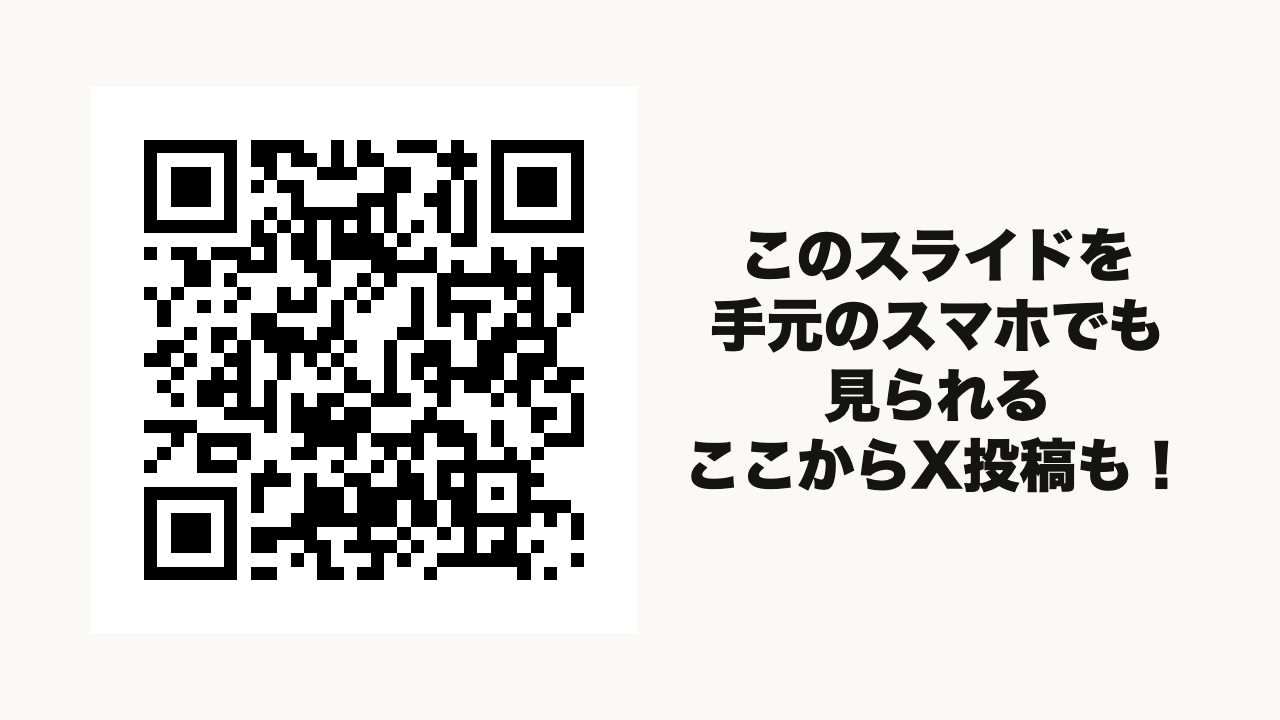
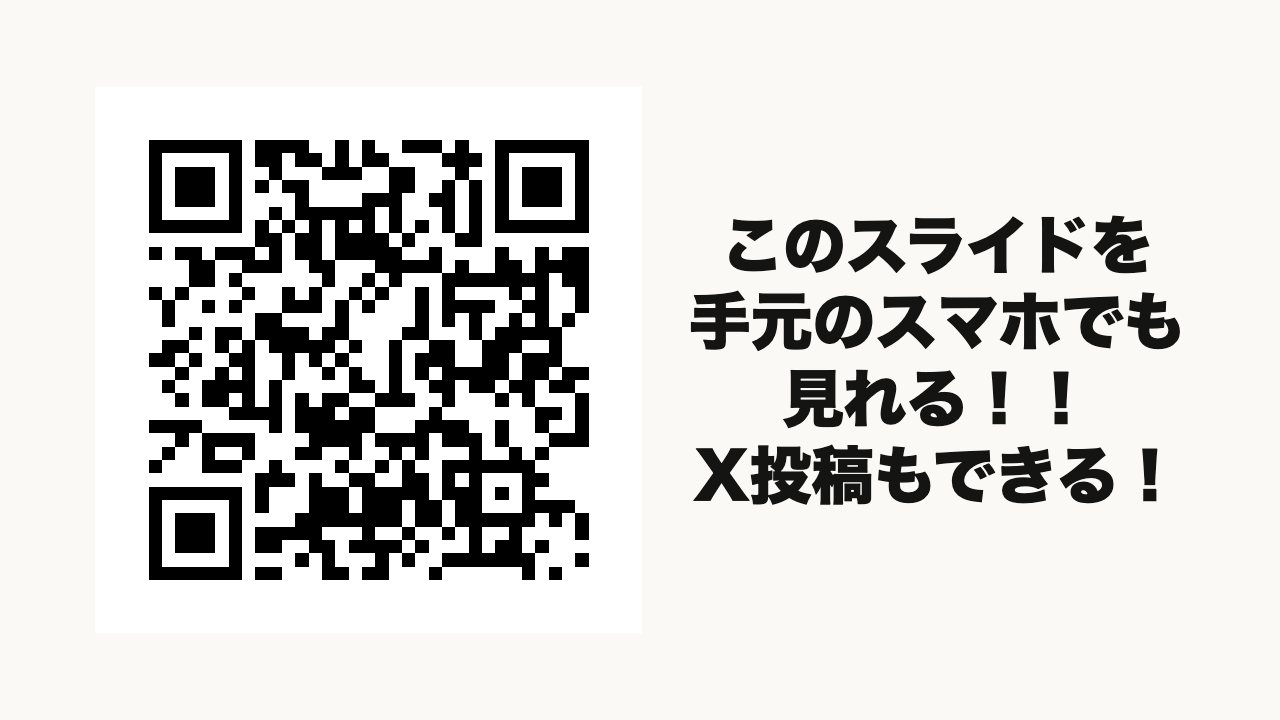
参加者向けスライドを編集内容に合わせて更新する

Changed region(s): [[0.0938, 0.1833, 0.4688, 0.825], [0.5312, 0.3056, 0.9375, 0.7028]]

diff --git a/claude-meetup/index.html b/claude-meetup/index.html
@@ -31,7 +31,7 @@
 <div id="toast" role="status" hidden></div>
 <script>
 (function () {
-  const ALL = [{"id": "title", "alt": "LTしたい Codex使いは Claude Codeの世界に 足を踏み入れる"}, {"id": "photoOk", "alt": "撮影・SNS投稿 大歓迎"}, {"id": "sameIdea", "alt": "鮫さんの 登壇スタイルを 真似してみる"}, {"id": "audienceQr", "alt": "このスライドを 手元のスマホでも 見られる ここからX投稿も！"}, {"id": "profile", "alt": "あぶち"}, {"id": "fourWeeks", "alt": "4週連続"}, {"id": "week1", "alt": "1週目： XRコンテンツを作ってみる会"}, {"id": "week1b", "alt": "1週目： XRコンテンツを作ってみる会"}, {"id": "pagemvv8d4pn", "alt": "2週目： さくらじまハウス2026 運営/登壇"}, {"id": "week2b", "alt": "3週目： CUG BIM/CIM勉強会 登壇"}, {"id": "week2", "alt": "3週目： CUG BIM/CIM勉強会 登壇"}, {"id": "week3b", "alt": "3週目： TSUKAFES ブース出展"}, {"id": "week3", "alt": "3週目： TSUKAFES ブース出展"}, {"id": "week4", "alt": "4週目： Kagoshima | Claude Meetup"}, {"id": "finally", "alt": "やっと終わった"}, {"id": "karakuni", "alt": "明日は霧島登山"}, {"id": "tokyo", "alt": "明後日は東京 Unreal Fest"}, {"id": "busy", "alt": "忙しスギィ！"}, {"id": "stillLt", "alt": "それでも LTに出たい"}, {"id": "pagemvv6107c", "alt": "なぜなのか！？"}, {"id": "komyusho", "alt": "コミュ障だから！"}, {"id": "mingleHard", "alt": "交流タイムがつらい"}, {"id": "ltMeishi", "alt": "LTは名刺代わり"}, {"id": "getTalked", "alt": "話しかけてもらえる"}, {"id": "komyushoLt", "alt": "コミュ障ほど LTしよう！！"}, {"id": "codexAll", "alt": "普段は 仕事も趣味もCodex"}, {"id": "claudeStart", "alt": "LTに出たくて Claude Codeを触ってみた"}, {"id": "appScreens", "alt": "グラスにも、みんなのスマホにも スライドを表示"}, {"id": "ideaFirst", "alt": "私も やってみたかった"}, {"id": "whatMake", "alt": "何ができるかより 何を作りたいか"}, {"id": "creator", "alt": "「自分もやってみたい」 そのきっかけを、鹿児島にも"}, {"id": "xrmLogo", "alt": ""}, {"id": "event", "alt": "鹿児島で XRに触れる場をつくる"}, {"id": "loop", "alt": "体験した人が 次は作る側になる"}, {"id": "ok", "alt": "「ちょっと触ってみた」も LTの話になる"}, {"id": "okQ", "alt": "LTしたくてClaudeを触り始めた 初心者のLTだったけど"}, {"id": "atarimae", "alt": "今日の話、簡単すぎた？"}, {"id": "yourTurn", "alt": "それなら、次は 登壇する側で"}, {"id": "thanks", "alt": "ご清聴ありがとうございました"}];
+  const ALL = [{"id": "title", "alt": "LTしたい Codex使いは Claude Codeの世界に 足を踏み入れる"}, {"id": "photoOk", "alt": "撮影・SNS投稿 大歓迎"}, {"id": "sameIdea", "alt": "鮫さんの 登壇スタイルを 真似してみる"}, {"id": "audienceQr", "alt": "このスライドを 手元のスマホでも 見れる！！ X投稿もできる！"}, {"id": "profile", "alt": "あぶち"}, {"id": "fourWeeks", "alt": "4週連続"}, {"id": "week1", "alt": "1週目： XRコンテンツを作ってみる会"}, {"id": "week1b", "alt": "1週目： XRコンテンツを作ってみる会"}, {"id": "pagemvv8d4pn", "alt": "2週目： さくらじまハウス2026 運営/登壇"}, {"id": "week2b", "alt": "3週目： CUG BIM/CIM勉強会 登壇"}, {"id": "week2", "alt": "3週目： CUG BIM/CIM勉強会 登壇"}, {"id": "week3b", "alt": "3週目： TSUKAFES ブース出展"}, {"id": "week3", "alt": "3週目： TSUKAFES ブース出展"}, {"id": "week4", "alt": "4週目： Kagoshima | Claude Meetup"}, {"id": "finally", "alt": "やっと終わった"}, {"id": "karakuni", "alt": "明日は霧島登山"}, {"id": "tokyo", "alt": "明後日は東京 Unreal Fest"}, {"id": "busy", "alt": "忙しスギィ！"}, {"id": "stillLt", "alt": "それでも LTに出たい"}, {"id": "pagemvv6107c", "alt": "なぜなのか！？"}, {"id": "komyusho", "alt": "コミュ障だから！"}, {"id": "mingleHard", "alt": "交流タイムがつらい"}, {"id": "ltMeishi", "alt": "LTは名刺代わり"}, {"id": "getTalked", "alt": "話しかけてもらえる"}, {"id": "komyushoLt", "alt": "コミュ障ほど LTしよう！！"}, {"id": "codexAll", "alt": "普段は 仕事も趣味もCodex"}, {"id": "claudeStart", "alt": "LTに出たくて Claude Codeを触ってみた"}, {"id": "appScreens", "alt": "グラスにも、みんなのスマホにも スライドを表示"}, {"id": "ideaFirst", "alt": "私も やってみたかった"}, {"id": "whatMake", "alt": "何ができるかより 何を作りたいか"}, {"id": "creator", "alt": "「自分もやってみたい」 そのきっかけを、鹿児島にも"}, {"id": "xrmLogo", "alt": ""}, {"id": "event", "alt": "鹿児島で XRに触れる場をつくる"}, {"id": "loop", "alt": "体験した人が 次は作る側になる"}, {"id": "ok", "alt": "「ちょっと触ってみた」も LTの話になる"}, {"id": "okQ", "alt": "LTしたくてClaudeを触り始めた 初心者のLTだったけど"}, {"id": "atarimae", "alt": "今日の話、簡単すぎた？"}, {"id": "yourTurn", "alt": "それなら、次は 登壇する側で"}, {"id": "thanks", "alt": "ご清聴ありがとうございました"}];
   const TOPIC = "abchee-lt-4d766b75dfda80be", BASE = "https://abricheese.github.io/talks/claude-meetup/", TITLE = "LTしたいCodex使いはClaude Codeの世界に足を踏み入れる", HASHTAG = "#claudecommunity #ClaudeCommunityKagoshima";
   const slides = ALL.filter(s => !s.hidden);
   const $ = id => document.getElementById(id);

diff --git a/claude-meetup/s/audienceQr.html b/claude-meetup/s/audienceQr.html
@@ -1,7 +1,7 @@
 <!doctype html><html lang="ja"><head><meta charset="utf-8">
 <title>LTしたいCodex使いはClaude Codeの世界に足を踏み入れる</title>
 <meta property="og:title" content="LTしたいCodex使いはClaude Codeの世界に足を踏み入れる">
-<meta property="og:description" content="このスライドを 手元のスマホでも 見られる ここからX投稿も！">
+<meta property="og:description" content="このスライドを 手元のスマホでも 見れる！！ X投稿もできる！">
 <meta property="og:image" content="https://abricheese.github.io/talks/claude-meetup/slides/audienceQr.jpg">
 <meta property="og:url" content="https://abricheese.github.io/talks/claude-meetup/s/audienceQr.html">
 <meta property="og:type" content="website">
